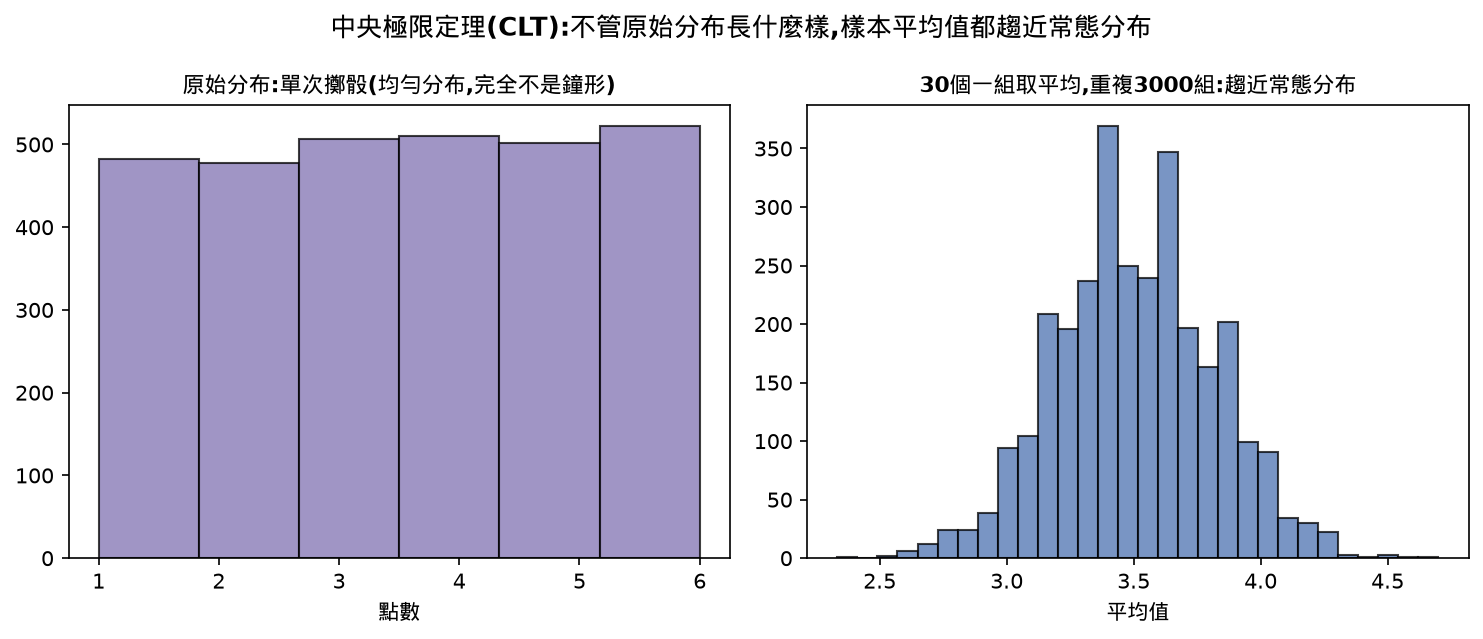
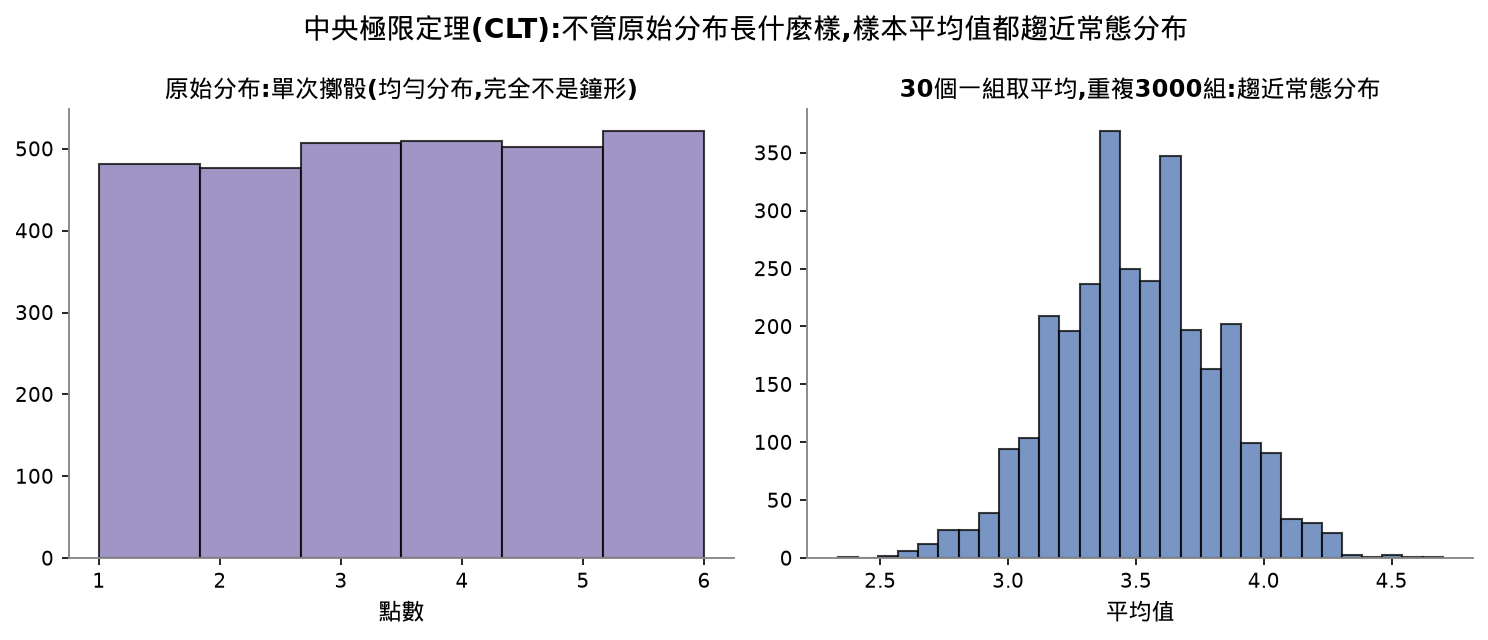
Lesson 6 diagrams: unify visual style
Regenerate with the shared plot style module.

diff --git a/01-math-foundations/06-probability-and-distributions/images/make_conditional_independence_demo.py b/01-math-foundations/06-probability-and-distributions/images/make_conditional_independence_demo.py
@@ -8,9 +8,10 @@ import matplotlib.font_manager as fm
 import matplotlib.patches as patches
 import matplotlib.pyplot as plt
 
-fm.fontManager.addfont("/usr/share/fonts/truetype/droid/DroidSansFallbackFull.ttf")
-matplotlib.rcParams["font.family"] = ["DejaVu Sans", "Droid Sans Fallback"]
-matplotlib.rcParams["axes.unicode_minus"] = False
+import sys
+sys.path.insert(0, "../../_shared")
+from plot_style import setup_style, BLUE, RED, GREEN, PURPLE, GOLD, GRAY
+setup_style()
 
 fig, axes = plt.subplots(1, 2, figsize=(10.5, 5))
 
@@ -25,7 +26,7 @@ ax.text(2.6, 4, "事件A", fontsize=11, fontweight="bold", color="#4C72B0", ha="
 ax.text(7.4, 4, "事件B", fontsize=11, fontweight="bold", color="#C44E52", ha="center")
 ax.text(5, 4, "A∩B", fontsize=9.5, ha="center", fontweight="bold")
 ax.set_xlim(0, 10); ax.set_ylim(0, 8); ax.set_aspect("equal"); ax.axis("off")
-ax.set_title("條件機率 P(A|B) = P(A∩B) / P(B)\n(只看B這個圈裡,A佔了多少比例)", fontsize=10.5, fontweight="bold")
+ax.set_title("條件機率 P(A|B) = P(A∩B) / P(B)\n(只看B這個圈裡,A佔了多少比例)", fontsize=11.5, fontweight="bold")
 
 # 右圖:獨立事件,重疊比例跟A本身的大小比例一致(用不重疊示意「互不影響」的簡化畫法)
 ax = axes[1]
@@ -37,7 +38,7 @@ ax.add_patch(circA2); ax.add_patch(circB2)
 ax.text(3.2, 4, "事件A", fontsize=11, fontweight="bold", color="#55A868", ha="center")
 ax.text(6.8, 4, "事件B", fontsize=11, fontweight="bold", color="#8172B2", ha="center")
 ax.set_xlim(0, 10); ax.set_ylim(0, 8); ax.set_aspect("equal"); ax.axis("off")
-ax.set_title("獨立事件(Independence)\nP(A|B) = P(A):知道B發生不改變A的機率", fontsize=10.5, fontweight="bold")
+ax.set_title("獨立事件(Independence)\nP(A|B) = P(A):知道B發生不改變A的機率", fontsize=11.5, fontweight="bold")
 
 plt.tight_layout()
 plt.savefig("conditional_independence.png", dpi=150, bbox_inches="tight")

diff --git a/01-math-foundations/06-probability-and-distributions/images/make_clt_demo.py b/01-math-foundations/06-probability-and-distributions/images/make_clt_demo.py
@@ -11,9 +11,10 @@ import sys
 sys.path.insert(0, "..")
 from reference import demonstrate_clt  # noqa: E402
 
-fm.fontManager.addfont("/usr/share/fonts/truetype/droid/DroidSansFallbackFull.ttf")
-matplotlib.rcParams["font.family"] = ["DejaVu Sans", "Droid Sans Fallback"]
-matplotlib.rcParams["axes.unicode_minus"] = False
+import sys
+sys.path.insert(0, "../../_shared")
+from plot_style import setup_style, BLUE, RED, GREEN, PURPLE, GOLD, GRAY
+setup_style()
 
 random.seed(42)
 
@@ -29,15 +30,15 @@ fig, axes = plt.subplots(1, 2, figsize=(10, 4.3))
 
 ax = axes[0]
 ax.hist(single_rolls, bins=6, color="#8172B2", alpha=0.75, edgecolor="black")
-ax.set_title("原始分布:單次擲骰(均勻分布,完全不是鐘形)", fontsize=10.5, fontweight="bold")
+ax.set_title("原始分布:單次擲骰(均勻分布,完全不是鐘形)", fontsize=11.5, fontweight="bold")
 ax.set_xlabel("點數")
 
 ax = axes[1]
 ax.hist(averages_of_30, bins=30, color="#4C72B0", alpha=0.75, edgecolor="black")
-ax.set_title("30個一組取平均,重複3000組:趨近常態分布", fontsize=10.5, fontweight="bold")
+ax.set_title("30個一組取平均,重複3000組:趨近常態分布", fontsize=11.5, fontweight="bold")
 ax.set_xlabel("平均值")
 
-fig.suptitle("中央極限定理(CLT):不管原始分布長什麼樣,樣本平均值都趨近常態分布", fontsize=12.5, fontweight="bold")
+fig.suptitle("中央極限定理(CLT):不管原始分布長什麼樣,樣本平均值都趨近常態分布")
 plt.tight_layout()
 plt.savefig("clt_demo.png", dpi=150, bbox_inches="tight")
 print("saved")

diff --git a/01-math-foundations/06-probability-and-distributions/images/make_expected_variance_demo.py b/01-math-foundations/06-probability-and-distributions/images/make_expected_variance_demo.py
@@ -10,9 +10,10 @@ import sys
 sys.path.insert(0, "..")
 from reference import expected_value, variance  # noqa: E402
 
-fm.fontManager.addfont("/usr/share/fonts/truetype/droid/DroidSansFallbackFull.ttf")
-matplotlib.rcParams["font.family"] = ["DejaVu Sans", "Droid Sans Fallback"]
-matplotlib.rcParams["axes.unicode_minus"] = False
+import sys
+sys.path.insert(0, "../../_shared")
+from plot_style import setup_style, BLUE, RED, GREEN, PURPLE, GOLD, GRAY
+setup_style()
 
 die_values = [1, 2, 3, 4, 5, 6]
 die_probs = [1 / 6] * 6
@@ -30,8 +31,8 @@ ax.set_xlabel("骰子點數 x", fontsize=10.5)
 ax.set_ylabel("機率", fontsize=10.5)
 ax.set_ylim(0, 0.22)
 ax.grid(alpha=0.3, linestyle="--", axis="y")
-ax.legend(fontsize=10, loc="upper right")
-ax.set_title("Expected value(期望值)與Variance(變異數):骰子範例", fontsize=12.5, fontweight="bold")
+ax.legend(loc="upper right")
+ax.set_title("Expected value(期望值)與Variance(變異數):骰子範例")
 
 plt.tight_layout()
 plt.savefig("expected_variance.png", dpi=150, bbox_inches="tight")

diff --git a/01-math-foundations/06-probability-and-distributions/images/make_joint_marginal_demo.py b/01-math-foundations/06-probability-and-distributions/images/make_joint_marginal_demo.py
@@ -6,9 +6,10 @@ import matplotlib.font_manager as fm
 import matplotlib.pyplot as plt
 import numpy as np
 
-fm.fontManager.addfont("/usr/share/fonts/truetype/droid/DroidSansFallbackFull.ttf")
-matplotlib.rcParams["font.family"] = ["DejaVu Sans", "Droid Sans Fallback"]
-matplotlib.rcParams["axes.unicode_minus"] = False
+import sys
+sys.path.insert(0, "../../_shared")
+from plot_style import setup_style, BLUE, RED, GREEN, PURPLE, GOLD, GRAY
+setup_style()
 
 joint = np.array([[0.10, 0.05, 0.05],
                    [0.15, 0.20, 0.05],
@@ -48,7 +49,7 @@ ax.text(m + 1.6, n / 2, "Marginal\nP(X):\n每一列\n加總", ha="center", fonts
 ax.set_xlim(-1.3, m + 2.3)
 ax.set_ylim(-0.8, n + 1.6)
 ax.axis("off")
-ax.set_title("Joint distribution P(X,Y) 跟 Marginal distribution 的關係", fontsize=13, fontweight="bold")
+ax.set_title("Joint distribution P(X,Y) 跟 Marginal distribution 的關係")
 
 plt.tight_layout()
 plt.savefig("joint_marginal_distribution.png", dpi=150, bbox_inches="tight")

diff --git a/01-math-foundations/06-probability-and-distributions/images/make_cross_entropy_demo.py b/01-math-foundations/06-probability-and-distributions/images/make_cross_entropy_demo.py
@@ -7,9 +7,10 @@ import matplotlib.font_manager as fm
 import matplotlib.pyplot as plt
 import numpy as np
 
-fm.fontManager.addfont("/usr/share/fonts/truetype/droid/DroidSansFallbackFull.ttf")
-matplotlib.rcParams["font.family"] = ["DejaVu Sans", "Droid Sans Fallback"]
-matplotlib.rcParams["axes.unicode_minus"] = False
+import sys
+sys.path.insert(0, "../../_shared")
+from plot_style import setup_style, BLUE, RED, GREEN, PURPLE, GOLD, GRAY
+setup_style()
 
 p = np.linspace(0.01, 1, 300)
 loss = -np.log(p)
@@ -28,7 +29,7 @@ for hp, c in zip(highlights, colors):
 ax.set_xlabel("模型對正確答案給的機率 p")
 ax.set_ylabel("loss = -log(p)")
 ax.set_ylim(0, 5)
-ax.set_title("Cross-entropy loss:機率越接近1 loss越接近0,越接近0 loss飆高", fontsize=12.5, fontweight="bold")
+ax.set_title("Cross-entropy loss:機率越接近1 loss越接近0,越接近0 loss飆高")
 ax.grid(alpha=0.3, linestyle="--")
 
 plt.tight_layout()
